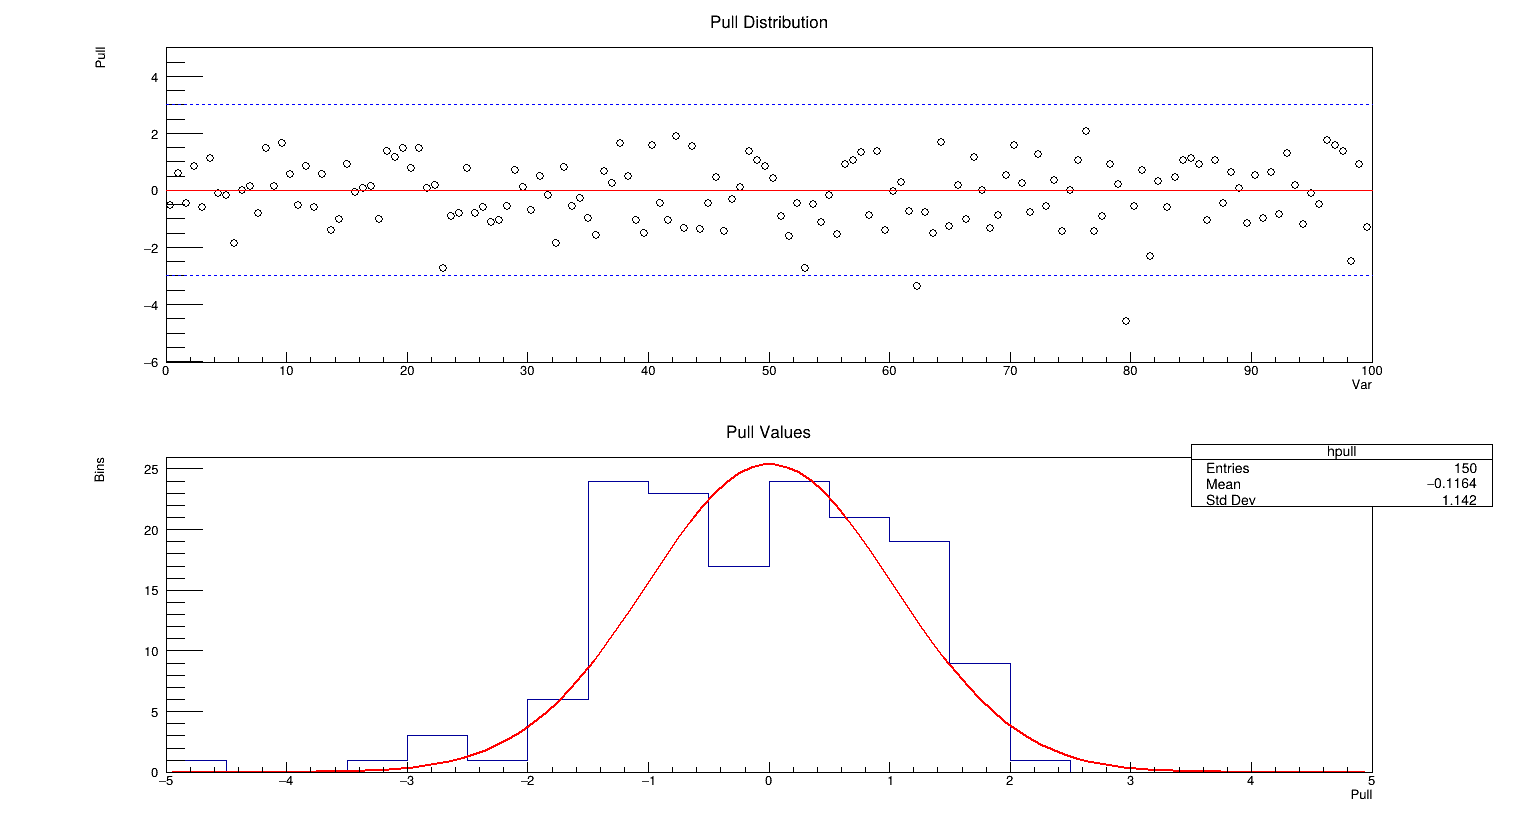
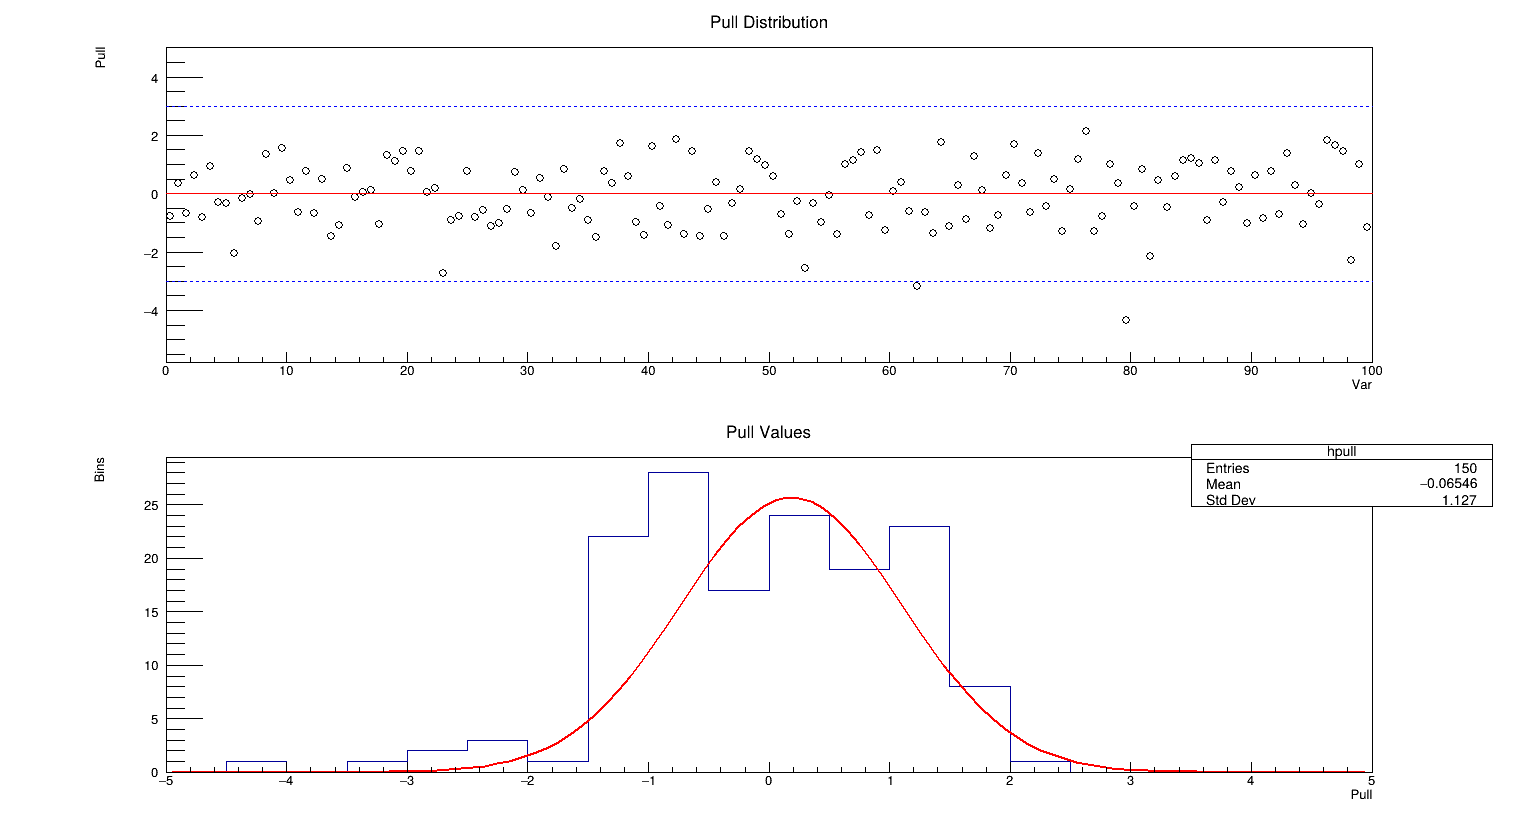
Made changes in the sig_bkg macros.

diff --git a/C_files/sig_bkg_1.C b/C_files/sig_bkg_1.C
@@ -49,22 +49,24 @@ void sig_bkg_1(){
 
     //SIGNAL PARAMETERS
 
-    RooRealVar mean("mean", "Mean", 45.0, 35.0, 55.0);
-    RooRealVar sigma("sigma", "Sigma", 0.7, 0.1, 7.0);
+    RooRealVar mean("mean", "Mean", 30.0, 0.0, 50.0);
+    RooRealVar sigma("sigma", "Sigma", 0.7, 0.1, 100.0);
+    mean.setVal(44.984);
+    sigma.setVal(3.0528);
+    mean.setConstant(kTRUE);
+    sigma.setConstant(kTRUE);
+
 
     // BACKGROUND PARAMETERS
 
-    RooRealVar tau1("tau1", "Expo Coeff", -0.05, -1.0, 0.0);
-    RooRealVar a0("a0","a0", 0.0, -1.0, 1.0);
-    RooRealVar a1("a1","a1", 0.0, -1.0, 1.0);
-    RooRealVar fracbkg("fracbkg", "Fraction", 0.5 , 0.0, 1.0);
+    RooRealVar tau1("tau", "Expo Coeff", -0.05, -5.0, 0.0);
+    tau1.setVal(-0.037282);
+    tau1.setConstant(kTRUE);
 
     // SIGNAL AND BACKGROUND PDFS
 
     RooGaussian signal("signal", "Signal PDF", var, mean, sigma);
-    RooExponential background("background", "Background PDF 1", var, tau1);
-    //RooChebychev background2("background2","Background PDF 2", var , RooArgList(a0, a1));
-    //RooAddPdf background("background", "Total Background", RooArgList(background1, background2), fracbkg);
+    RooExponential background("background", "Background PDF", var, tau1);
 
     
     // YEILD VARIABLES
@@ -218,10 +220,7 @@ void sig_bkg_1(){
     out << "Mean: " << mean.getVal() << " ± " << mean.getError() << endl;
     out << "Sigma: " << sigma.getVal() << " ± " << sigma.getError() << endl;
     out << "\nBackground Yield: "<< nbkg.getVal()<< " ± "<< nbkg.getError()<< endl;
-    out << "Tau 1: " << tau1.getVal() << " ± " << tau1.getError() << endl;
-    out << "a0: " << a0.getVal() << " ± " << a0.getError() << endl;
-    out << "a1: " << a1.getVal() << " ± " << a1.getError() << endl;
-    out << "Fraction: " << fracbkg.getVal() << " ± " << fracbkg.getError() << endl;
+    out << "Tau: " << tau1.getVal() << " ± " << tau1.getError() << endl;
 
     out.close();
     

diff --git a/C_files/sig_bkg_3.C b/C_files/sig_bkg_3.C
@@ -59,10 +59,16 @@ void sig_bkg_3(){
 
     RooRealVar mean("mean", "Mean", 30.0, 0.0, 50.0);
     RooRealVar sigma("sigma", "Sigma", 0.7, 0.1, 100.0);
+    mean.setVal(44.984);
+    sigma.setVal(3.0528);
+    mean.setConstant(kTRUE);
+    sigma.setConstant(kTRUE);
 
     // BACKGROUND PARAMETERS
 
     RooRealVar tau("tau", "Expo Coeff", -0.05, -5.0, 0.0);
+    tau.setVal(-0.037282);
+    tau.setConstant(kTRUE);
 
     // SIGNAL AND BACKGROUND PDFS
 
@@ -72,8 +78,8 @@ void sig_bkg_3(){
     
     // YEILD VARIABLES
 
-    RooRealVar nsig("nsig", "Signal Yield", 10000, 0, 500000);
-    RooRealVar nbkg("nbkg", "Background Yield", 10000, 0, 500000);
+    RooRealVar nsig("nsig", "Signal Yield", 0.0, 0.0, 500000.0);
+    RooRealVar nbkg("nbkg", "Background Yield", 1000, 0.0, 500000.0);
     
 
     // COMBINED MODEL
@@ -199,8 +205,7 @@ void sig_bkg_3(){
     plot.Draw();
 
     // draw the 90% CL line
-    TLine *cl_line = new TLine(upper_limit, 0, 
-                                upper_limit, 1);
+    TLine *cl_line = new TLine(upper_limit, 0, upper_limit, 5);
     cl_line->SetLineColor(kRed);
     cl_line->SetLineStyle(2);
     cl_line->Draw("same");

diff --git a/C_files/sig_bkg_2.C b/C_files/sig_bkg_2.C
@@ -54,12 +54,19 @@ void sig_bkg_2(){
 
     //SIGNAL PARAMETERS
 
-    RooRealVar mean("mean", "Mean", 45.0, 0.0, 60.0);
-    RooRealVar sigma("sigma", "Sigma", 0.7, 0.1, 40.0);
+    RooRealVar mean("mean", "Mean", 30.0, 0.0, 50.0);
+    RooRealVar sigma("sigma", "Sigma", 0.7, 0.1, 100.0);
+    mean.setVal(44.984);
+    sigma.setVal(3.0528);
+    mean.setConstant(kTRUE);
+    sigma.setConstant(kTRUE);
+
 
     // BACKGROUND PARAMETERS
 
     RooRealVar tau("tau", "Expo Coeff", -0.05, -5.0, 0.0);
+    tau.setVal(-0.037282);
+    tau.setConstant(kTRUE);
 
     // SIGNAL AND BACKGROUND PDFS
 

diff --git a/C_files/sig_bkg_4.C b/C_files/sig_bkg_4.C
@@ -54,12 +54,19 @@ void sig_bkg_4(){
 
     //SIGNAL PARAMETERS
 
-    RooRealVar mean("mean", "Mean", 10.0, 0.0, 30.0);
-    RooRealVar sigma("sigma", "Sigma", 0.7, 0.1, 20.0);
+    RooRealVar mean("mean", "Mean", 30.0, 0.0, 50.0);
+    RooRealVar sigma("sigma", "Sigma", 0.7, 0.1, 100.0);
+    mean.setVal(44.984);
+    sigma.setVal(3.0528);
+    mean.setConstant(kTRUE);
+    sigma.setConstant(kTRUE);
+
 
     // BACKGROUND PARAMETERS
 
     RooRealVar tau("tau", "Expo Coeff", -0.05, -5.0, 0.0);
+    tau.setVal(-0.037282);
+    tau.setConstant(kTRUE);
 
     // SIGNAL AND BACKGROUND PDFS
 
